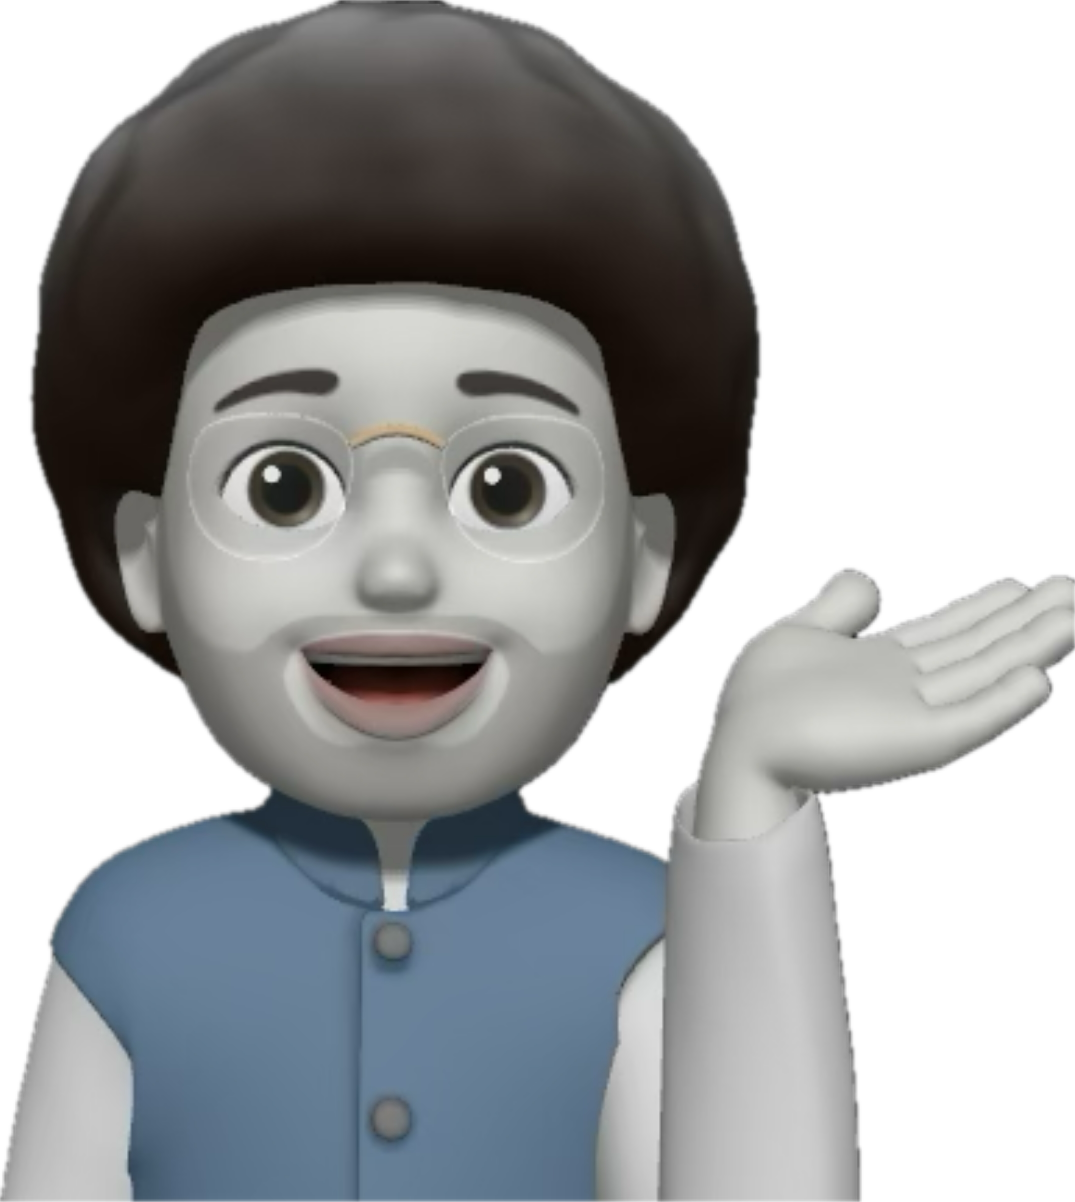
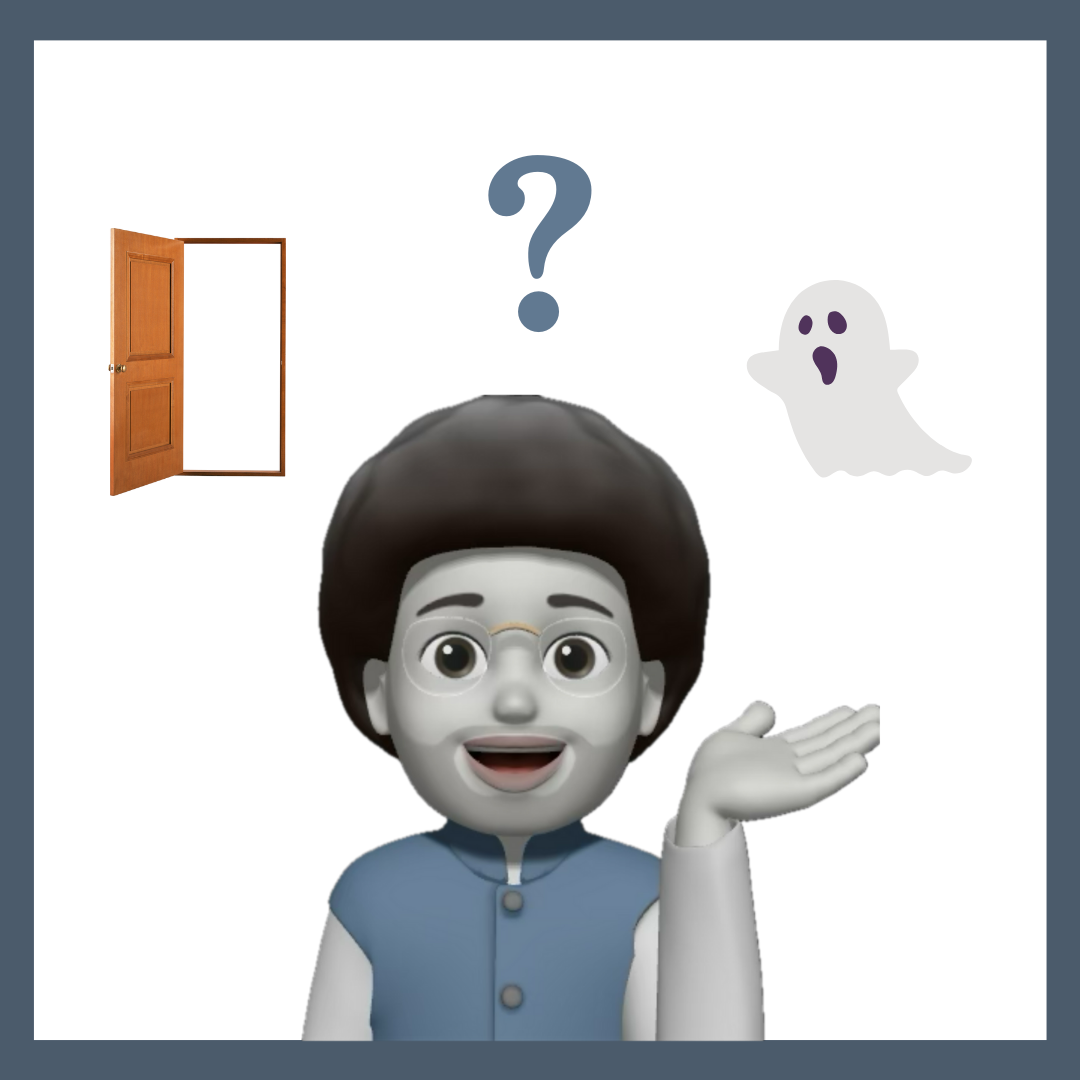
사진 변경 및 진행바  색상 변경

diff --git a/css/qna.css b/css/qna.css
@@ -44,15 +44,7 @@
 .statusBar{
     height: 100%;
     border-radius: 20px;
-    /* Permalink - use to edit and share this gradient: https://colorzilla.com/gradient-editor/#febbbb+0,fe9090+52,ff5c5c+100;Red+3D+%231 */
-    background: #febbbb;
-    /* Old browsers */
-    background: -moz-linear-gradient(top, #febbbb 0%, #fe9090 52%, #ff5c5c 100%);
-    /* FF3.6-15 */
-    background: -webkit-linear-gradient(top, #febbbb 0%, #fe9090 52%, #ff5c5c 100%);
-    /* Chrome10-25,Safari5.1-6 */
-    background: linear-gradient(to bottom, #febbbb 0%, #fe9090 52%, #ff5c5c 100%);
-    /* W3C, IE10+, FF16+, Chrome26+, Opera12+, Safari7+ */
-    filter: progid:DXImageTransform.Microsoft.gradient(startColorstr='#febbbb', endColorstr='#ff5c5c', GradientType=0);
-    /* IE6-9 */
+    /* Permalink - use to edit and share this gradient: https://colorzilla.com/gradient-editor/#6db3f2+0,3690f0+51,1e69de+100 */
+    background: linear-gradient(to bottom,  #6db3f2 0%,#3690f0 51%,#1e69de 100%); /* W3C, IE10+, FF16+, Chrome26+, Opera12+, Safari7+ */
+
 }
